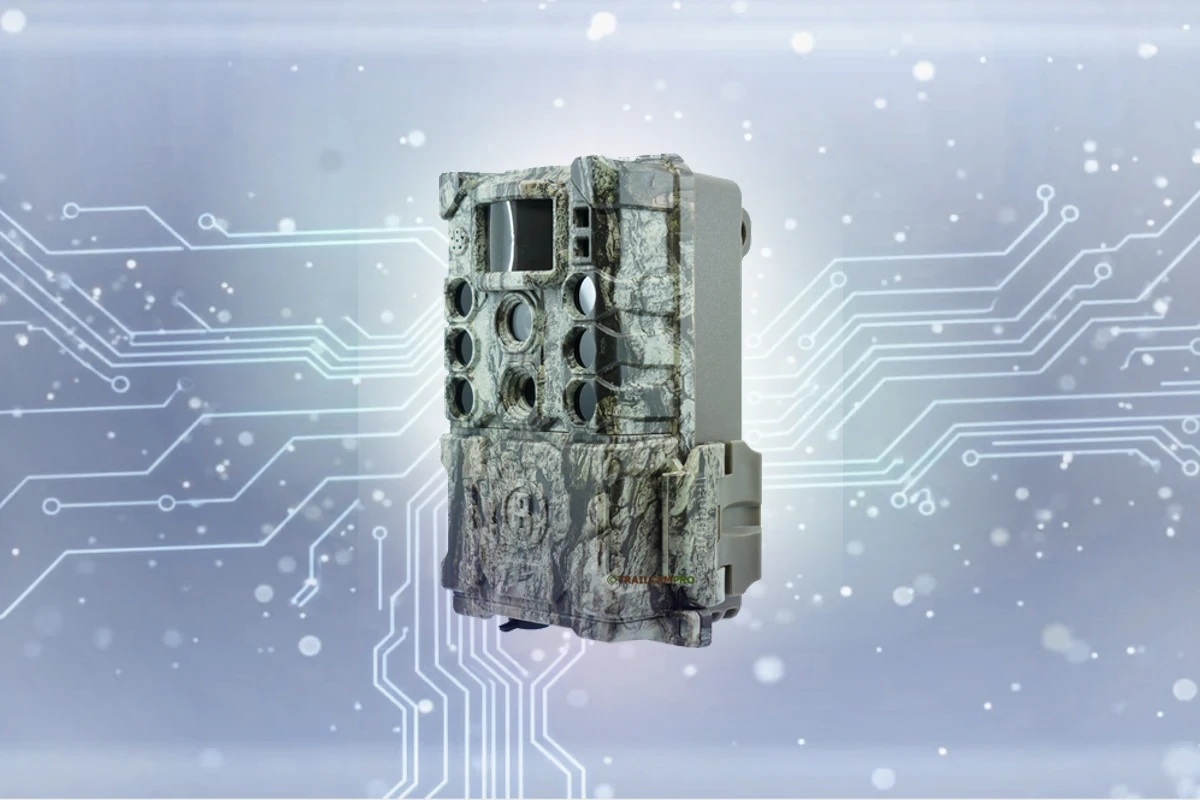
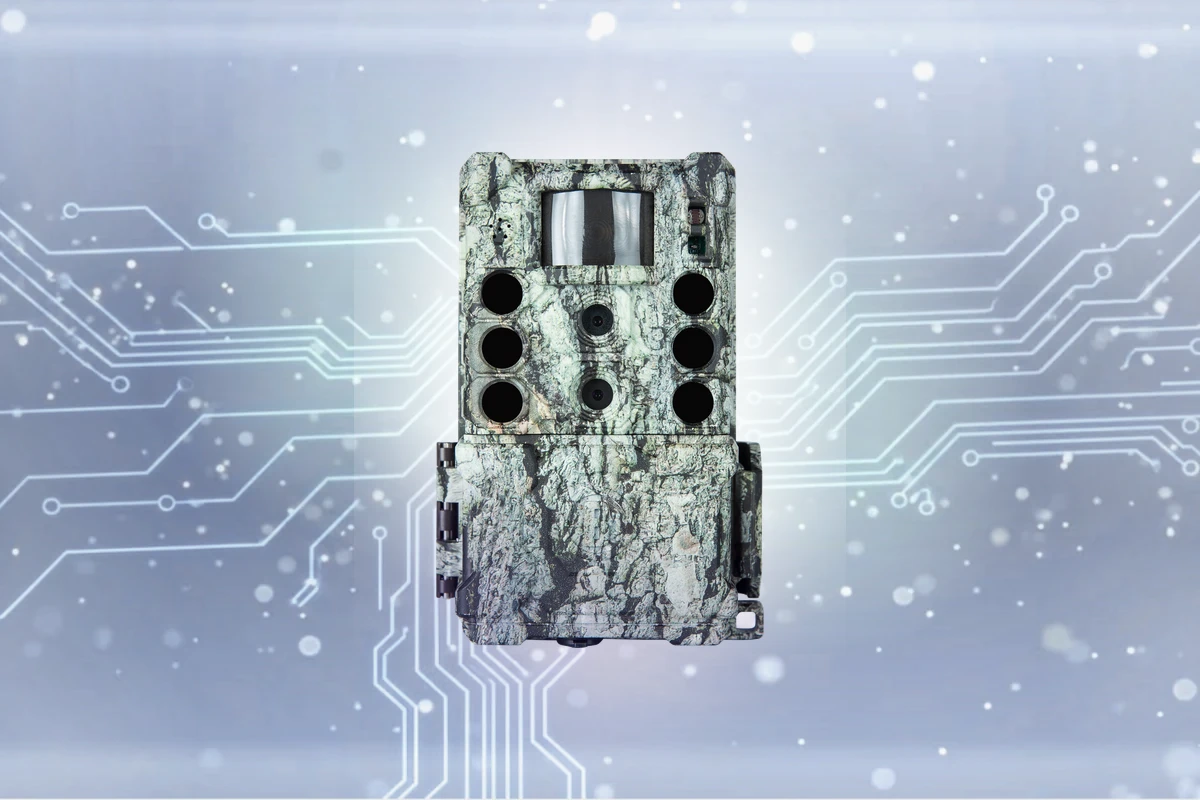
-

Changed region(s): [[0.3392, 0.1875, 0.6475, 0.8125]]

diff --git a/scripts/images/image-sources.js b/scripts/images/image-sources.js
@@ -197,9 +197,13 @@ async function shopifySource(device, { domain, productTypes, preferTokens } = {}
     candidates = candidates.filter((p) => productTypes.includes(p.product_type));
   }
 
+  // Some storefronts rebrand a device's retail title away from its model
+  // number (e.g. Vantrue's "N4 Pro" listed as "Nexus 4 Pro") but keep the
+  // model code in the product's URL handle — include it in the matched text
+  // so relevanceScore can still find the model token.
   const scored = rankCandidates(
     candidates
-      .map((p) => ({ p, r: relevanceScore(device.name, `${p.vendor || ""} ${p.title}`) }))
+      .map((p) => ({ p, r: relevanceScore(device.name, `${p.vendor || ""} ${p.title} ${p.handle || ""}`) }))
       .filter((s) => s.r.ok),
     (s) => s.p.title,
     preferTokens
@@ -357,6 +361,12 @@ const BRAND_REGISTRY = [
   // listings per model year; preferTokens nudges toward the newest revision
   // instead of the shortest title (the original 2023 listing).
   { brand: "gpd", source: wooCommerceSource, config: { domain: "https://gpdstore.net", preferTokens: ["2025"] } },
+  { brand: "bushnell", source: shopifySource, config: { domain: "https://www.bushnell.com", productTypes: ["Non-Cellular Trail Camera", "Cellular Trail Camera"] } },
+  { brand: "blackvue", source: shopifySource, config: { domain: "https://blackvue.com", productTypes: ["Dash cam"] } },
+  // Vantrue's storefront rebrands the "N4 Pro" dashcam as "Nexus 4 Pro" in the
+  // title, but the product's URL handle is "n4-pro" — shopifySource matches
+  // against vendor+title+handle, so the model token still resolves.
+  { brand: "vantrue", source: shopifySource, config: { domain: "https://vantrue.com", productTypes: ["dash cam"] } },
 ];
 
 function lookupBrand(device) {

diff --git a/DEVICE_IMAGE_PIPELINE.md b/DEVICE_IMAGE_PIPELINE.md
@@ -145,3 +145,20 @@ entries for examples).
 - The matcher's regression cases (covering the 5 false-positive classes
   above) are committed at `scripts/images/__tests__/relevanceScore.test.js`
   (`npm run test:images`) — run before/after touching `relevanceScore()`.
+- **Vantrue** (vantrue.com, Shopify, registered 2026-07) correctly matches
+  the "N4 Pro" device to its "Nexus 4 Pro" listing (handle `n4-pro` — see
+  the `shopifySource` note about matching against vendor+title+handle), but
+  every image in that product's catalog entry is a lifestyle/marketing
+  collage (in-car shots, phone-app screenshots, feature callouts) — none are
+  a clean studio cutout the compositor can chroma-key. Left on placeholder;
+  re-check if Vantrue ever adds a plain product shot.
+- **Thinkware** has no reachable open storefront: `thinkware.com` redirects
+  geographically to country marketing sites (e.g. `thinkwaredashcam.it`)
+  that are WordPress + Jetpack, not WooCommerce (no `wc/store` REST
+  namespace) — no products.json, no open commerce API found.
+- Marine electronics (**Lowrance**, **Garmin**, **Humminbird**) and legacy
+  point-and-shoot cameras (**Canon**, **Sony**, **Nikon**) are large/enterprise
+  storefronts with no public Shopify/WooCommerce API (`/products.json` and
+  `/wp-json/wc/store/v1/products` both blocked or absent) — same class of gap
+  as the big-brand sites already noted above; would need a bespoke/headless
+  adapter to source, out of scope here.